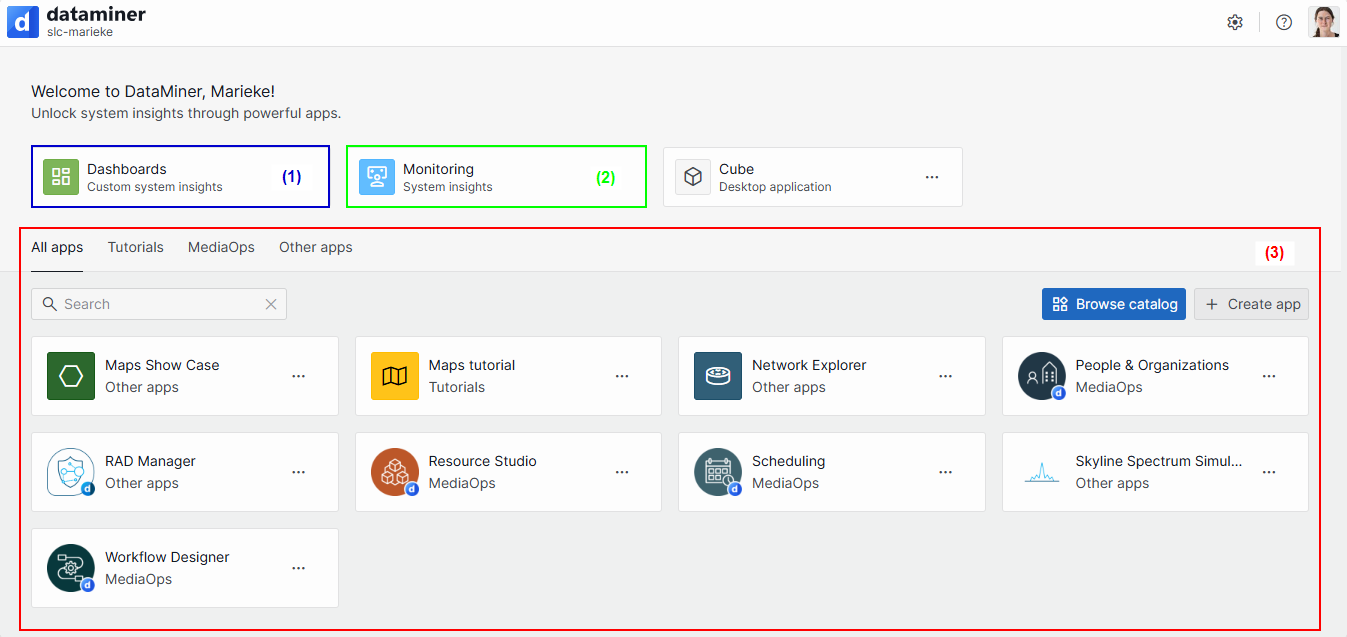
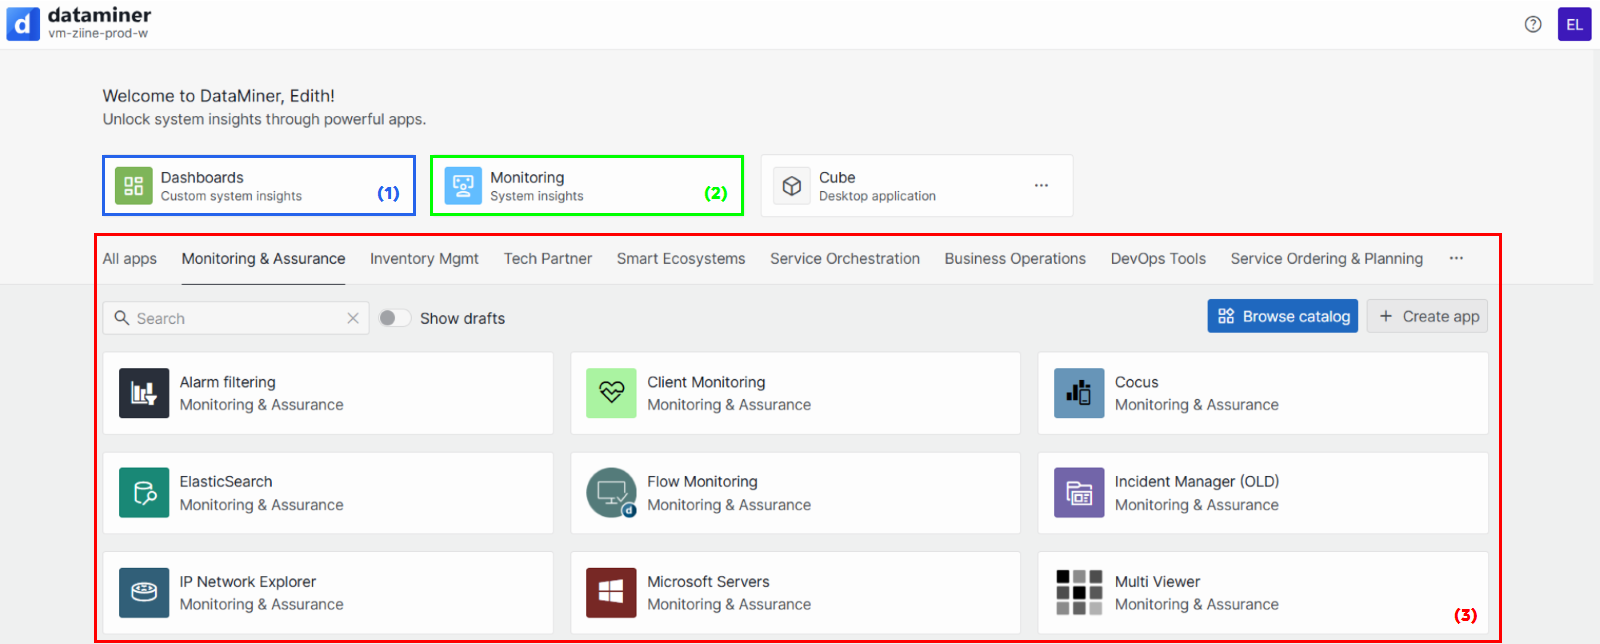
RN 43966

diff --git a/dataminer/Functions/Dashboards_and_Low_Code_Apps/Low_Code_Apps/Creating_custom_apps.md b/dataminer/Functions/Dashboards_and_Low_Code_Apps/Low_Code_Apps/Creating_custom_apps.md
@@ -47,7 +47,7 @@ uid: Creating_custom_apps
 > Once an app has been published, it is not possible to revert it to a draft.
 
 > [!NOTE]
-> When you close a draft app you have been working on, it is saved automatically. As such, if you do not want to publish your app immediately, you can just close it to save it as a draft. However, draft apps are not shown by default on the landing page. To view them, click the cogwheel button and activate *Show draft applications*.
+> When you close a draft app you have been working on, it is saved automatically. As such, if you do not want to publish your app immediately, you can just close it to save it as a draft. However, draft apps are not shown by default on the landing page. To view them, enable the *Show drafts* toggle next to the search bar. Prior to DataMiner 10.4.0 [CU21]/10.5.0 [CU9]/10.5.12<!--RN 43966-->,click the cogwheel button and activate *Show draft applications*.
 
 > [!TIP]
 > See also: [Tutorials - Creating and publishing an app](xref:Tutorial_Apps_Creating_And_Publishing)
@@ -67,7 +67,7 @@ From DataMiner 10.3.0 [CU10]/10.4.1 onwards<!-- RN 37698+37724 -->, it is possib
 
 The most recently published app version will now be duplicated. If the app has not yet been published, its draft version will be duplicated instead.
 
-The newly created duplicate will be assigned a unique name and will automatically be opened in a new browser tab. On the root page, this landing app will be added to the list if the *Show draft applications* option is enabled.
+The newly created duplicate will be assigned a unique name and will automatically be opened in a new browser tab. On the root page, this landing app will be added to the list if the *Show drafts* or *Show draft applications* option (depending on your DataMiner version<!--RN 43966-->) is enabled.
 
 ### Duplicating an app from the app page itself
 

diff --git a/dataminer/Functions/Dashboards_and_Low_Code_Apps/Low_Code_Apps/Low-Code_Apps_configuration/Changing_low-code_app_settings.md b/dataminer/Functions/Dashboards_and_Low_Code_Apps/Low_Code_Apps/Low-Code_Apps_configuration/Changing_low-code_app_settings.md
@@ -79,4 +79,4 @@ Note that an "On app open" event currently has the following limitations:
 1. To save your changes and publish it, click the ![Publish](~/dataminer/images/AppPublishIcon.png) icon in the header bar.
 
    > [!NOTE]
-   > When you close a draft app you have been working on, it is saved automatically. As such, if you do not want to publish your app immediately, you can just close it to save it as a draft. However, draft apps are not shown by default on the landing page. To view them, click the cogwheel button and activate *Show draft applications*.
+   > When you close a draft app you have been working on, it is saved automatically. As such, if you do not want to publish your app immediately, you can just close it to save it as a draft. However, draft apps are not shown by default on the landing page. To view them, enable the *Show drafts* toggle next to the search bar. Prior to DataMiner 10.4.0 [CU21]/10.5.0 [CU9]/10.5.12<!--RN 43966-->,click the cogwheel button and activate *Show draft applications*.

diff --git a/dataminer/Functions/Dashboards_and_Low_Code_Apps/Low_Code_Apps/Editing_custom_apps.md b/dataminer/Functions/Dashboards_and_Low_Code_Apps/Low_Code_Apps/Editing_custom_apps.md
@@ -4,7 +4,7 @@ uid: Editing_custom_apps
 
 # Editing an app
 
-You can begin editing a low-code app from within the app or from the DataMiner landing page. If you want to edit a draft app, make sure the draft applications are shown: click the cogwheel button on the landing page and activate *Show draft applications*.
+You can begin editing a low-code app from within the app or from the DataMiner landing page. If you want to edit a draft app, make sure the draft applications are shown: enable the *Show drafts* toggle next to the search bar. Prior to DataMiner 10.4.0 [CU21]/10.5.0 [CU9]/10.5.12<!--RN 43966-->, click the cogwheel button on the landing page and activate *Show draft applications*.
 
 From the DataMiner **landing page** (supported from DataMiner 10.3.0 [CU10]/10.4.0 onwards<!-- RN 37830 -->):
 

diff --git a/dataminer/Getting_started/Accessing_DataMiner/Accessing_the_web_apps.md b/dataminer/Getting_started/Accessing_DataMiner/Accessing_the_web_apps.md
@@ -98,7 +98,7 @@ From DataMiner 10.4.0 [CU18]/10.5.0 [CU6]/10.5.9 onwards<!--RN 43226-->, you can
 
 1. Add the argument `?showAdvancedSettings=true` to the landing page URL.
 
-1. Click the cogwheel button in the top-right corner of the page.
+1. Click the user button in the top-right corner of the page and select *User settings*. Prior to DataMiner 10.4.0 [CU21]/10.5.0 [CU9]/10.5.12<!--RN 43966-->, click the cogwheel button in the top-right corner of the page.
 
 1. Select one of the available themes:
 
